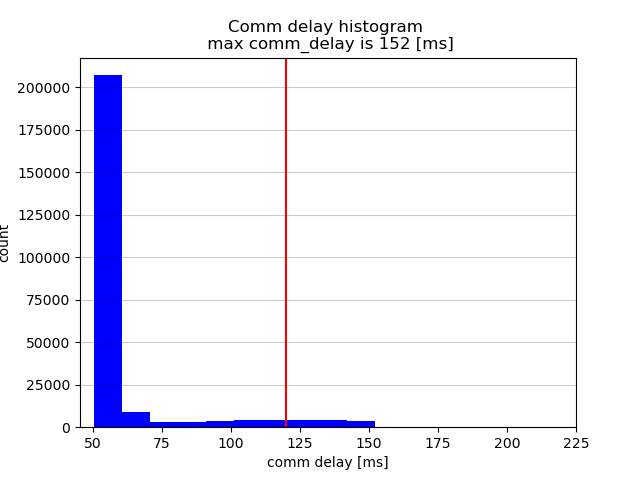
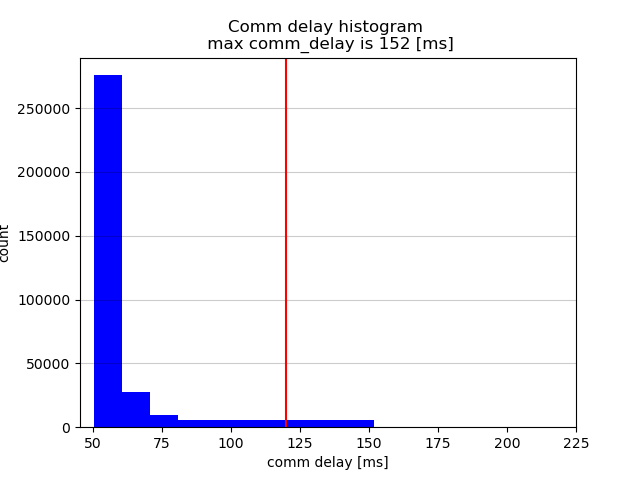
using all traj check in delay check

diff --git a/mader/src/mader_ros.cpp b/mader/src/mader_ros.cpp
@@ -218,8 +218,7 @@ MaderRos::MaderRos(ros::NodeHandle nh1, ros::NodeHandle nh2, ros::NodeHandle nh3
 
   // Timers
   pubCBTimer_ = nh2_.createTimer(ros::Duration(par_.dc), &MaderRos::pubCB, this);
-  // replanCBTimer_ = nh3_.createTimer(ros::Duration(par_.dc), &MaderRos::replanCB, this);
-  replanCBTimer_ = nh3_.createTimer(ros::Duration(0.1), &MaderRos::replanCB, this);
+  replanCBTimer_ = nh3_.createTimer(ros::Duration(par_.dc), &MaderRos::replanCB, this);
 
   // For now stop all these subscribers/timers until we receive GO
   // // sub_state_.shutdown();
@@ -261,7 +260,10 @@ MaderRos::MaderRos(ros::NodeHandle nh1, ros::NodeHandle nh2, ros::NodeHandle nh3
   std::string id = name_drone_;
   id.erase(0, 2);  // Erase SQ or HX i.e. SQ12 --> 12  HX8621 --> 8621 # TODO Hard-coded for this this convention
   id_ = std::stoi(id);
+
+  // mtx_mader_ptr_.lock();
   mader_ptr_->getID(id_);
+  // mtx_mader_ptr_.unlock();
 
   timer_stop_.Reset();
 
@@ -385,7 +387,9 @@ void MaderRos::trajCB(const mader_msgs::DynTraj& msg)
   }
   else
   {
+    // mtx_mader_ptr_.lock();
     mader_ptr_->updateTrajObstacles(tmp);
+    // mtx_mader_ptr_.unlock();
   }
 }
 
@@ -413,11 +417,15 @@ void MaderRos::allTrajsTimerCB(const ros::TimerEvent& e)
 
     if (is_delaycheck_)
     {
+      // mtx_mader_ptr_.lock();
       delay_check_result_ = mader_ptr_->updateTrajObstacles(alltrajs_[0], pwp_now_, is_in_DC_, headsup_time_);
+      // mtx_mader_ptr_.unlock();
     }
     else
     {
+      // mtx_mader_ptr_.lock();
       mader_ptr_->updateTrajObstacles(alltrajs_[0]);
+      // mtx_mader_ptr_.unlock();
     }
 
     double time_now = ros::Time::now().toSec();
@@ -524,27 +532,32 @@ void MaderRos::replanCB(const ros::TimerEvent& e)
   if (ros::ok() && published_initial_position_ == true && is_mader_running_)
   {
     // introduce random wait time in the beginning
-    // if (!is_replanCB_called_)
-    // {
-    //   // to avoid initial path search congestions add some random sleep here
-    //   std::random_device rd;
-    //   std::default_random_engine eng(rd());
-    //   std::uniform_real_distribution<float> distr(0, 2);  // sleep between 0 and 1 sec
-    //   ros::Duration(distr(eng)).sleep();
-    //   is_replanCB_called_ = true;
-    // }
+    if (!is_replanCB_called_)
+    {
+      // to avoid initial path search congestions add some random sleep here
+      std::random_device rd;
+      std::default_random_engine eng(rd());
+      std::uniform_real_distribution<float> distr(0, 2);  // sleep between 0 and 1 sec
+      ros::Duration(distr(eng)).sleep();
+      is_replanCB_called_ = true;
+    }
 
+    // mtx_mader_ptr_.lock();
     if (mader_ptr_->isGoalSeen())
     {
       std::cout << "goal is seen so no need to replan" << std::endl;
       is_mader_running_ = false;
+      // mtx_mader_ptr_.unlock();
       return;
     }
+    // mtx_mader_ptr_.unlock();
 
     // when reached goal, publish how many msgs, which we supposedly should have considered
     if (is_replanCB_initialized_)
     {
+      // mtx_mader_ptr_.lock();
       mt::state G_term = mader_ptr_->getGterm();
+      // mtx_mader_ptr_.unlock();
       double dist_to_goal = (state_.pos - G_term.pos).norm();
       if (dist_to_goal < par_.goal_radius)
       {
@@ -567,8 +580,10 @@ void MaderRos::replanCB(const ros::TimerEvent& e)
 
     if (is_delaycheck_)
     {
+      // mtx_mader_ptr_.lock();
       replanned = mader_ptr_->replan_with_delaycheck(edges_obstacles, traj_plan, planes, num_of_LPs_run_,
                                                      num_of_QCQPs_run_, pwp_now_, headsup_time_);
+      // mtx_mader_ptr_.unlock();
 
       if (par_.visual)
       {
@@ -584,7 +599,7 @@ void MaderRos::replanCB(const ros::TimerEvent& e)
       if (replanned)
       {
         MyTimer delay_check_t(true);
-        is_in_DC_ = true;
+        // is_in_DC_ = true;
 
         // let others know my new trajectory
         publishOwnTraj(pwp_now_, false, headsup_time_);
@@ -610,7 +625,9 @@ void MaderRos::replanCB(const ros::TimerEvent& e)
           // wait while trajCB() is checking new trajs
           // TODO make this as a timer so that i can move onto the next optimization
           // std::cout << "waiting in DC" << std::endl;
-          // delay_check_result_ = mader_ptr_->everyTrajCheck(pwp_now_);
+          // mtx_mader_ptr_.lock();
+          delay_check_result_ = mader_ptr_->everyTrajCheck(pwp_now_);
+          // mtx_mader_ptr_.unlock();
           ros::Duration(0.01).sleep();
           if (delay_check_result_ == false)
           {
@@ -618,7 +635,7 @@ void MaderRos::replanCB(const ros::TimerEvent& e)
           }
         }
         // ros::Duration(delay_check_).sleep();
-        is_in_DC_ = false;
+        // is_in_DC_ = false;
         // end of delay check *******************************************************
 
         // std::cout << "after delay check" << std::endl;
@@ -633,7 +650,10 @@ void MaderRos::replanCB(const ros::TimerEvent& e)
           //   return;
           // }
 
-          if (mader_ptr_->addTrajToPlan_with_delaycheck(pwp_now_))
+          // mtx_mader_ptr_.lock();
+          bool successful_to_add_to_plan = mader_ptr_->addTrajToPlan_with_delaycheck(pwp_now_);
+          // mtx_mader_ptr_.unlock();
+          if (successful_to_add_to_plan)
           {
             // successful
 
@@ -710,7 +730,9 @@ void MaderRos::replanCB(const ros::TimerEvent& e)
     {
       // // std::cout << "I'm using old mader!!!!!" << std::endl;
 
+      // mtx_mader_ptr_.lock();
       replanned = mader_ptr_->replan(edges_obstacles, traj_plan, planes, num_of_LPs_run_, num_of_QCQPs_run_, pwp_now_);
+      // mtx_mader_ptr_.unlock();
 
       if (par_.visual)
       {
@@ -780,7 +802,9 @@ void MaderRos::replanCB(const ros::TimerEvent& e)
   }
 
   mt::state G;  // projected goal
+  // mtx_mader_ptr_.lock();
   mader_ptr_->getG(G);
+  // mtx_mader_ptr_.unlock();
   pubState(G, pub_point_G_);
 }
 
@@ -856,7 +880,9 @@ void MaderRos::whoPlansCB(const mader_msgs::WhoPlans& msg)
     sub_term_goal_.shutdown();
     pubCBTimer_.stop();
     replanCBTimer_.stop();
+    // mtx_mader_ptr_.lock();
     mader_ptr_->resetInitialization();
+    // mtx_mader_ptr_.unlock();
     is_mader_running_ = false;
     std::cout << on_blue << "**************MADER STOPPED" << reset << std::endl;
   }
@@ -887,7 +913,9 @@ void MaderRos::stateCB(const snapstack_msgs::State& msg)
   // std::cout << "Updating state to" << std::endl;
   // state_tmp.print();
 
+  // mtx_mader_ptr_.lock();
   mader_ptr_->updateState(state_tmp);  // this updates state //mader_ptr_ is a pointer to mader object
+  // mtx_mader_ptr_.unlock();
 
   W_T_B_ = Eigen::Translation3d(msg.pos.x, msg.pos.y, msg.pos.z) *
            Eigen::Quaterniond(msg.quat.w, msg.quat.x, msg.quat.y, msg.quat.z);
@@ -898,10 +926,12 @@ void MaderRos::stateCB(const snapstack_msgs::State& msg)
     publishOwnTraj(pwp_last_, true);
     published_initial_position_ = true;
   }
+  // mtx_mader_ptr_.lock();
   if (mader_ptr_->IsTranslating() == true && par_.visual)
   {
     pubActualTraj();
   }
+  // mtx_mader_ptr_.unlock();
 
   // publishFOV();
 }
@@ -930,6 +960,7 @@ void MaderRos::stateCB(const snapstack_msgs::State& msg)
 void MaderRos::pubCB(const ros::TimerEvent& e)
 {
   mt::state next_goal;
+  // mtx_mader_ptr_.lock();
   if (mader_ptr_->getNextGoal(next_goal))
   {
     snapstack_msgs::Goal quadGoal;
@@ -967,6 +998,7 @@ void MaderRos::pubCB(const ros::TimerEvent& e)
 
     pub_setpoint_.publish(setpoint_);
   }
+  // mtx_mader_ptr_.unlock();
 }
 
 void MaderRos::clearMarkerArray(visualization_msgs::MarkerArray* tmp, ros::Publisher* publisher)
@@ -1045,7 +1077,9 @@ void MaderRos::pubActualTraj()
   static geometry_msgs::Point p_last = mu::pointOrigin();
 
   mt::state current_state;
+  // mtx_mader_ptr_.lock();
   mader_ptr_->getState(current_state);
+  // mtx_mader_ptr_.unlock();
   Eigen::Vector3d act_pos = current_state.pos;
 
   visualization_msgs::Marker m;
@@ -1146,7 +1180,9 @@ void MaderRos::terminalGoalCB(const geometry_msgs::PoseStamped& msg)
   }
 
   G_term.setPos(msg.pose.position.x, msg.pose.position.y, z);
+  // mtx_mader_ptr_.lock();
   mader_ptr_->setTerminalGoal(G_term);
+  // mtx_mader_ptr_.unlock();
 
   pubState(G_term, pub_point_G_term_);
 

diff --git a/mader/src/mader.cpp b/mader/src/mader.cpp
@@ -174,6 +174,9 @@ void Mader::dynTraj2dynTrajCompiled(const mt::dynTraj& traj, mt::dynTrajCompiled
 bool Mader::updateTrajObstacles(mt::dynTraj traj, const mt::PieceWisePol& pwp_now, const bool& is_in_DC,
                                 const double& headsup_time)
 {
+  
+  // std::cout << "in updateTrajObstacles" << std::endl;
+
   bool delay_check_result = true;
 
   MyTimer tmp_t(true);
@@ -189,7 +192,7 @@ bool Mader::updateTrajObstacles(mt::dynTraj traj, const mt::PieceWisePol& pwp_no
   }
   mtx_hrtwch_.unlock();
 
-  mtx_trajs_.lock();  // this should be above is_in_DC block, otherwise gives a pointer-related error
+
 
   // std::vector<mt::dynTrajCompiled>::iterator obs_ptr =
   //     std::find_if(trajs_.begin(), trajs_.end(),
@@ -254,6 +257,10 @@ bool Mader::updateTrajObstacles(mt::dynTraj traj, const mt::PieceWisePol& pwp_no
       }
     }
   }
+
+  // std::cout << "bef mtx_trajs_.lock() in updateTrajObstacles" << std::endl;
+  mtx_trajs_.lock();
+  // std::cout << "aft mtx_trajs_.lock() in updateTrajObstacles" << std::endl; 
 
   // if (exists_in_local_map && traj.is_committed)
   if (traj.is_committed)
@@ -323,9 +330,14 @@ bool Mader::updateTrajObstacles(mt::dynTraj traj, const mt::PieceWisePol& pwp_no
 
   trajs_ = local_trajs;
 
+  // std::cout << "bef mtx_trajs_.unlock() in updateTrajObstacles" << std::endl;
   mtx_trajs_.unlock();
+  // std::cout << "aft mtx_trajs_.unlock() in updateTrajObstacles" << std::endl;
+
+  // std::cout << "out updateTrajObstacles" << std::endl;
 
   return delay_check_result;
+
   // std::cout << bold << blue << "updateTrajObstacles took " << tmp_t << reset << std::endl;
 }
 

diff --git a/mader/scripts/run_many_sims_multi_agent.py b/mader/scripts/run_many_sims_multi_agent.py
@@ -37,15 +37,15 @@ def myhook():
 if __name__ == '__main__':
 
     # parameters
-    is_oldmader=False
-    num_of_sims=10
+    is_oldmader=True
+    num_of_sims=60
     num_of_agents=10
     how_long_to_wait = 40 #[s]
     if is_oldmader:
-        dc_list = [0, 160, 120, 100, 78, 63, 55, 51] #dc_list[0] will be used for old mader (which doesn't need delay check) so enter some value (default 0)
+        # dc_list = [0, 160, 120, 100, 78, 63, 55, 51] #dc_list[0] will be used for old mader (which doesn't need delay check) so enter some value (default 0)
+        dc_list = [0] #dc_list[0] will be used for old mader (which doesn't need delay check) so enter some value (default 0)
     else:
-        # dc_list = [160, 120, 100, 78, 63, 55, 51] #dc_list[0] will be used for old mader (which doesn't need delay check) so enter some value (default 0)
-        dc_list = [160] #dc_list[0] will be used for old mader (which doesn't need delay check) so enter some value (default 0)
+        dc_list = [160, 120, 100, 78, 63, 55, 51] #dc_list[0] will be used for old mader (which doesn't need delay check) so enter some value (default 0)
 
     # folder initialization
     folder_bags_list = []

diff --git a/mader/include/mader_ros.hpp b/mader/include/mader_ros.hpp
@@ -164,6 +164,7 @@ private:
 
   std::mutex mtx_alltrajs_;
   std::mutex mtx_alltrajsTimers_;
+  std::mutex mtx_mader_ptr_;
 
   std::deque<mt::dynTraj> alltrajs_;
   std::deque<ros::Timer> alltrajsTimers_;
